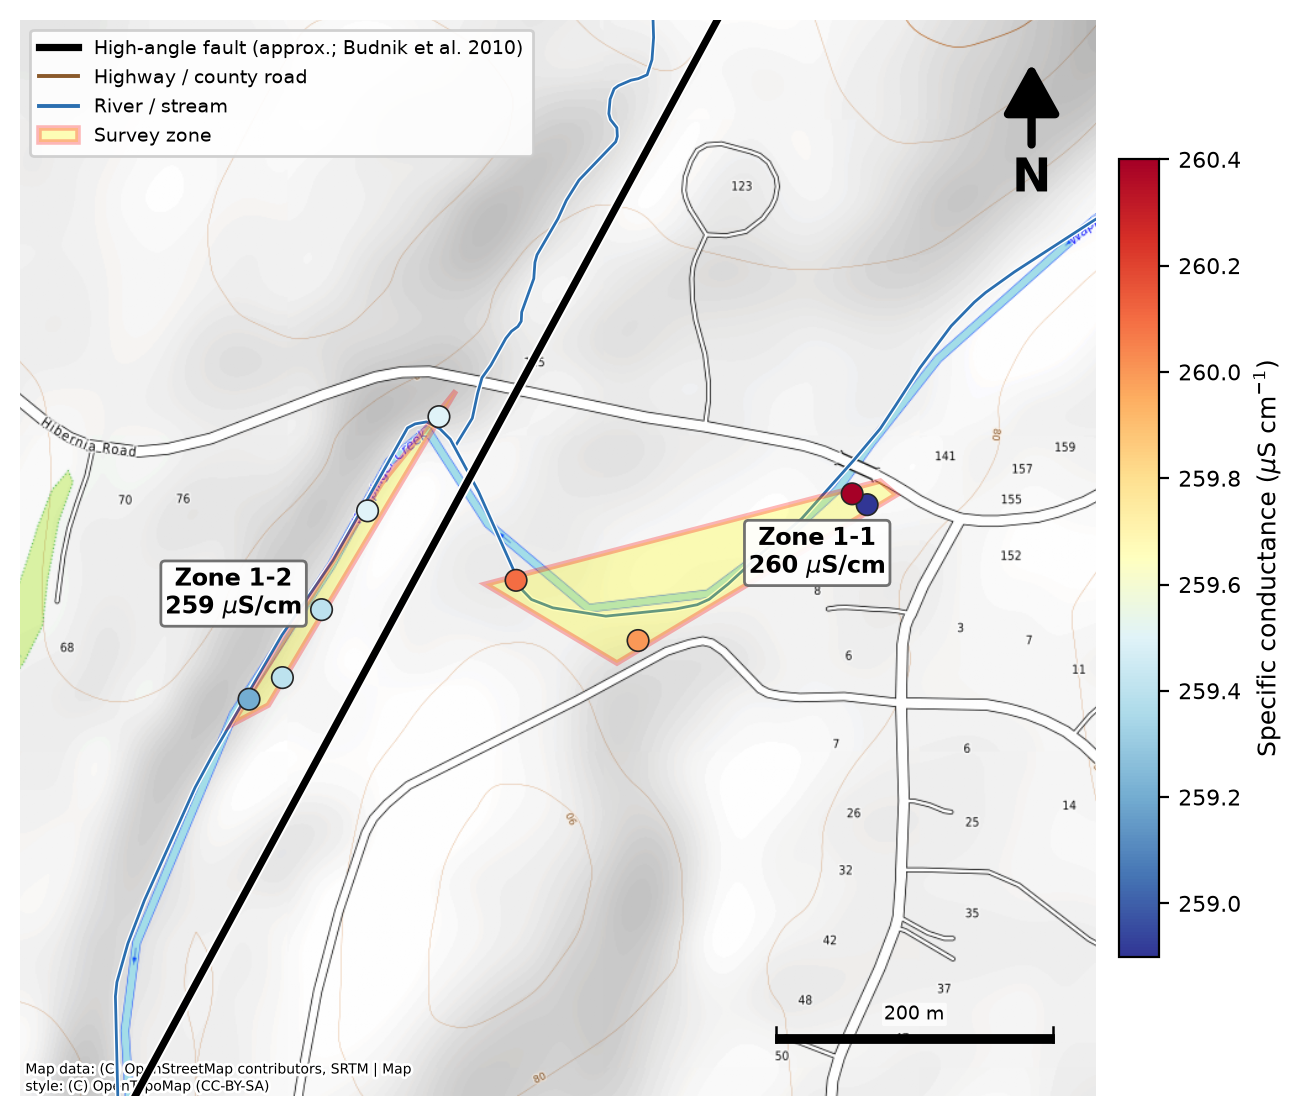
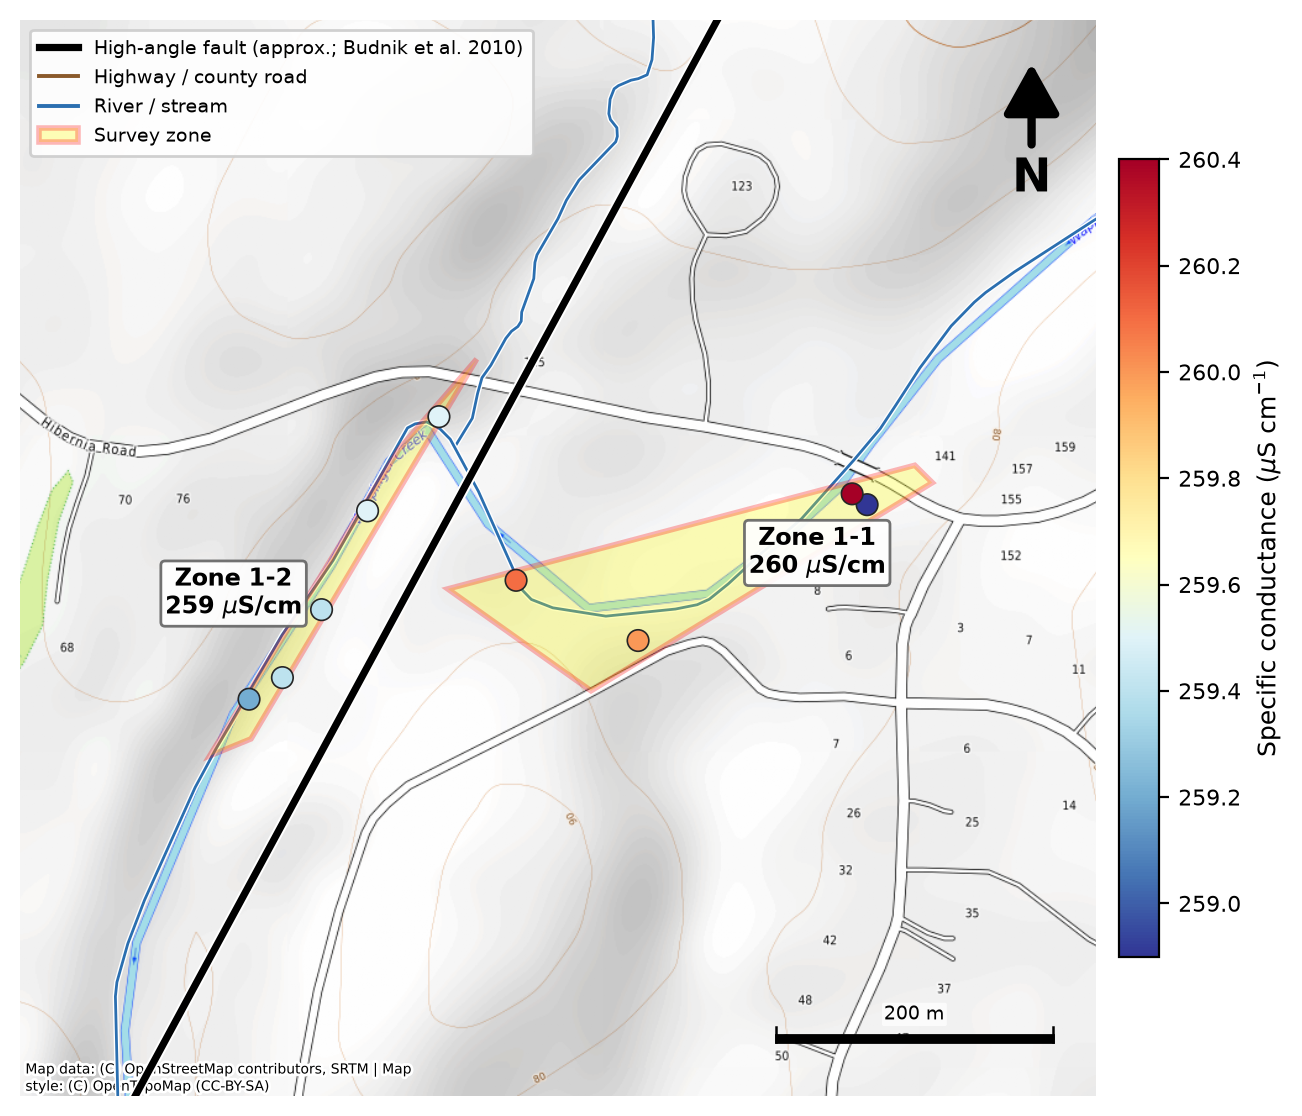
Site maps: adaptive zone buffering (looser where possible, no overlap)
- Buffer each zone hull generously (up to 0.14*span) but cap the buffer to
  0.42x the distance to the nearest other zone, so interleaved Site 3 zones
  (3-1/3-2/3-3) no longer overlap while Sites 1-2 get roomier zones

diff --git a/src/maps.py b/src/maps.py
@@ -270,14 +270,24 @@ def draw_site(site, df, zframes, cstats):
     ec_all = site_pts["EC"].to_numpy(dtype=float)
     norm = Normalize(vmin=ec_all.min(), vmax=ec_all.max())
 
-    # highlighted zones, labelled with the zone id and its mean EC
+    # highlighted zones. Buffer each hull generously, but cap the buffer to the
+    # gap to the nearest other zone so neighbours don't overlap (Site 3's zones
+    # are interleaved along the reach).
+    from scipy.spatial import cKDTree
+    zone_xy = {z: np.array([merc(lo, la) for lo, la
+               in zip(zframes[z]["lon"], zframes[z]["lat"])]) for z in zones}
     centroids = {}
     for z in zones:
-        fr = zframes[z]
-        xs, ys = zip(*[merc(lo, la) for lo, la in zip(fr["lon"], fr["lat"])])
-        xs, ys = np.array(xs), np.array(ys)
+        pts_z = zone_xy[z]
+        others = [zone_xy[o] for o in zones if o != z]
+        if others:
+            dmin = cKDTree(np.vstack(others)).query(pts_z)[0].min()
+            pad = min(span * 0.14, 0.42 * dmin)
+        else:
+            pad = span * 0.14
+        xs, ys = pts_z[:, 0], pts_z[:, 1]
         for rx, ry in _runs(xs, ys):
-            _zone_patch(ax, rx, ry, pad=span * 0.05)
+            _zone_patch(ax, rx, ry, pad=pad)
         centroids[z] = (xs.mean(), ys.mean())
 
     # zone labels (id + mean EC), splayed radially outward to avoid overlap
